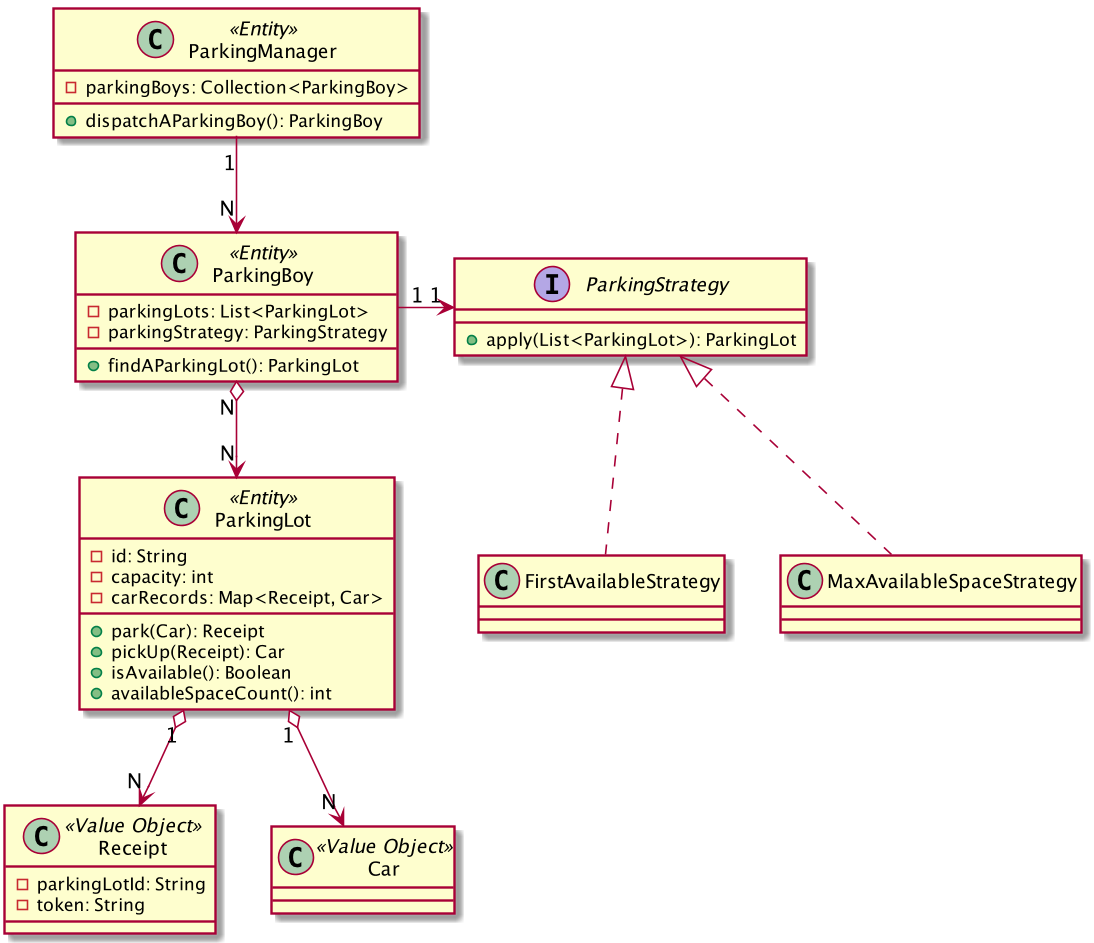
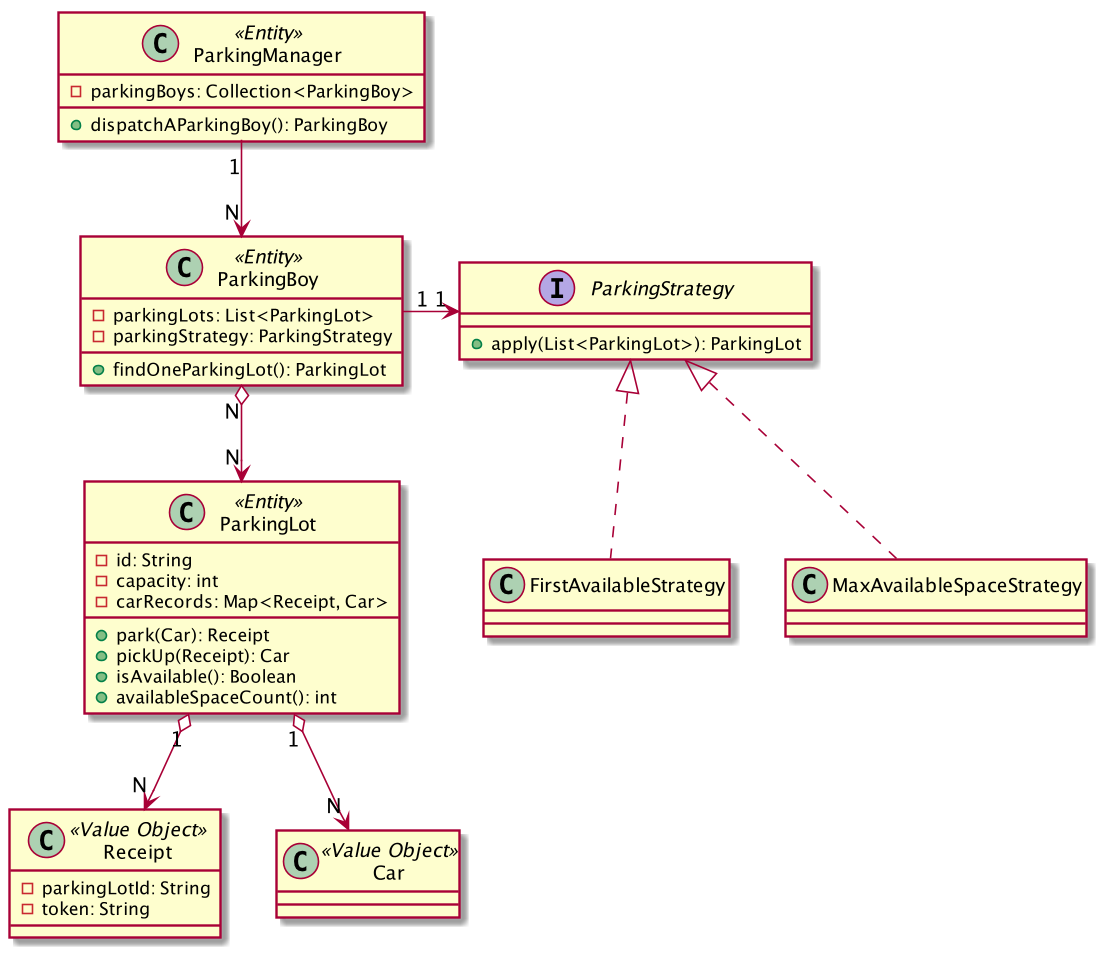
implement ParkingBoy.findOneParkingLot

diff --git a/src/main/java/com/thoughtworks/school/parkinglot/model/ParkingBoy.java b/src/main/java/com/thoughtworks/school/parkinglot/model/ParkingBoy.java
@@ -1,11 +1,20 @@
 package com.thoughtworks.school.parkinglot.model;
 
 import com.thoughtworks.school.parkinglot.annotation.Entity;
-import java.util.ArrayList;
 import java.util.List;
 
 @Entity
 public class ParkingBoy {
 
-  private List<ParkingLot> parkingLots = new ArrayList<>();
+  private List<ParkingLot> parkingLots;
+  private ParkingStrategy strategy;
+
+  public ParkingBoy(List<ParkingLot> parkingLots, ParkingStrategy strategy) {
+    this.parkingLots = parkingLots;
+    this.strategy = strategy;
+  }
+
+  public ParkingLot findOneParkingLot() {
+    return strategy.apply(parkingLots);
+  }
 }
